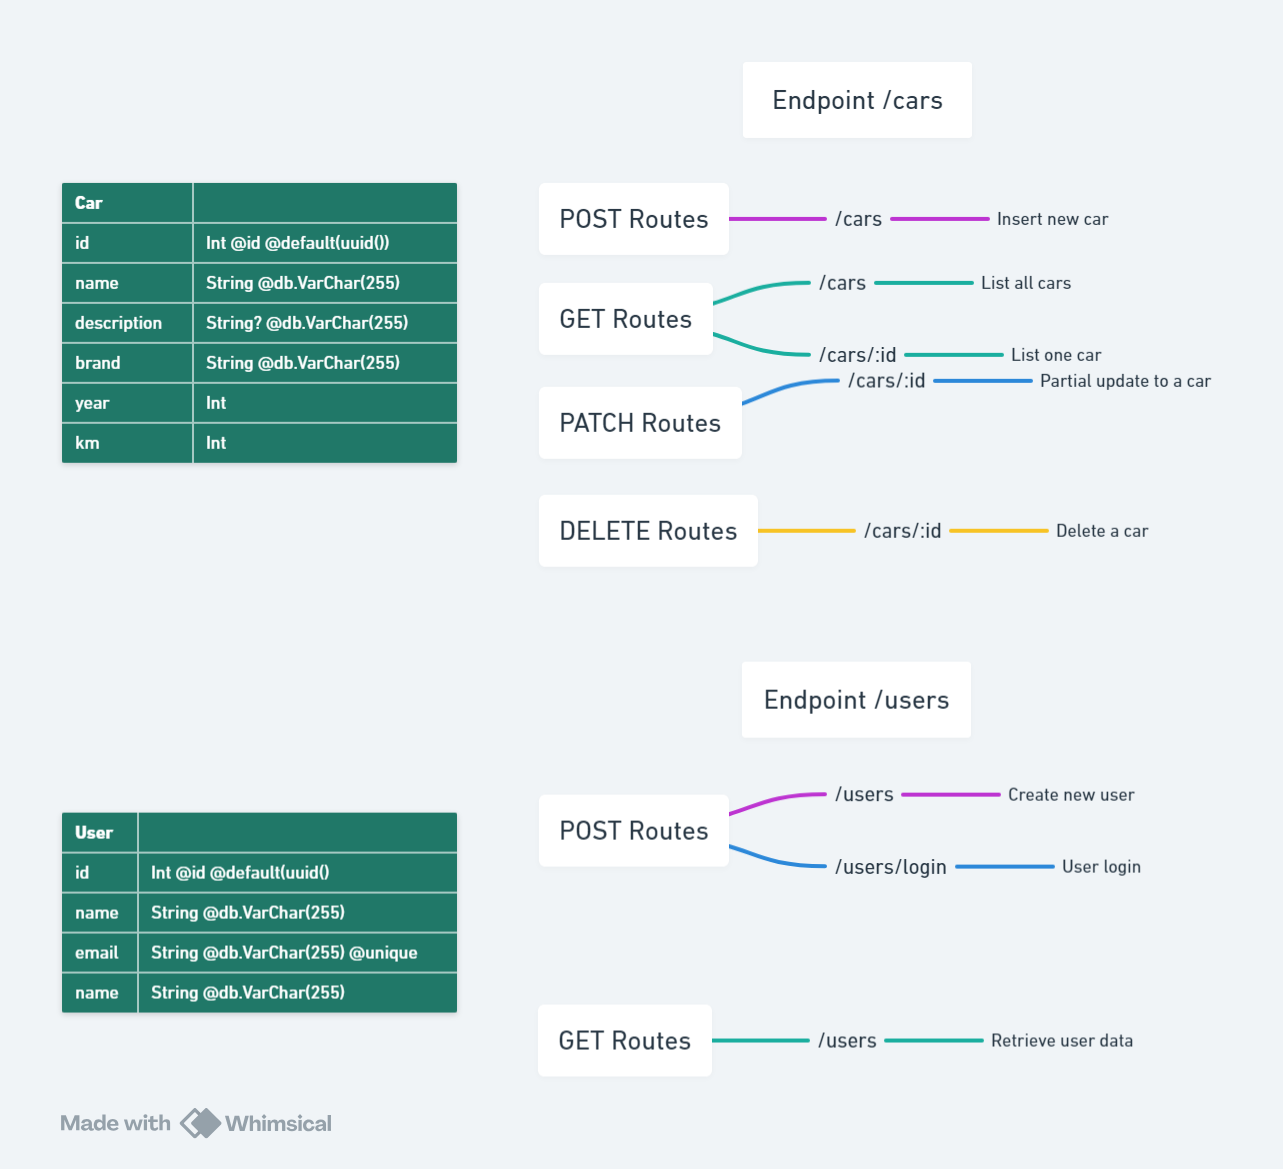
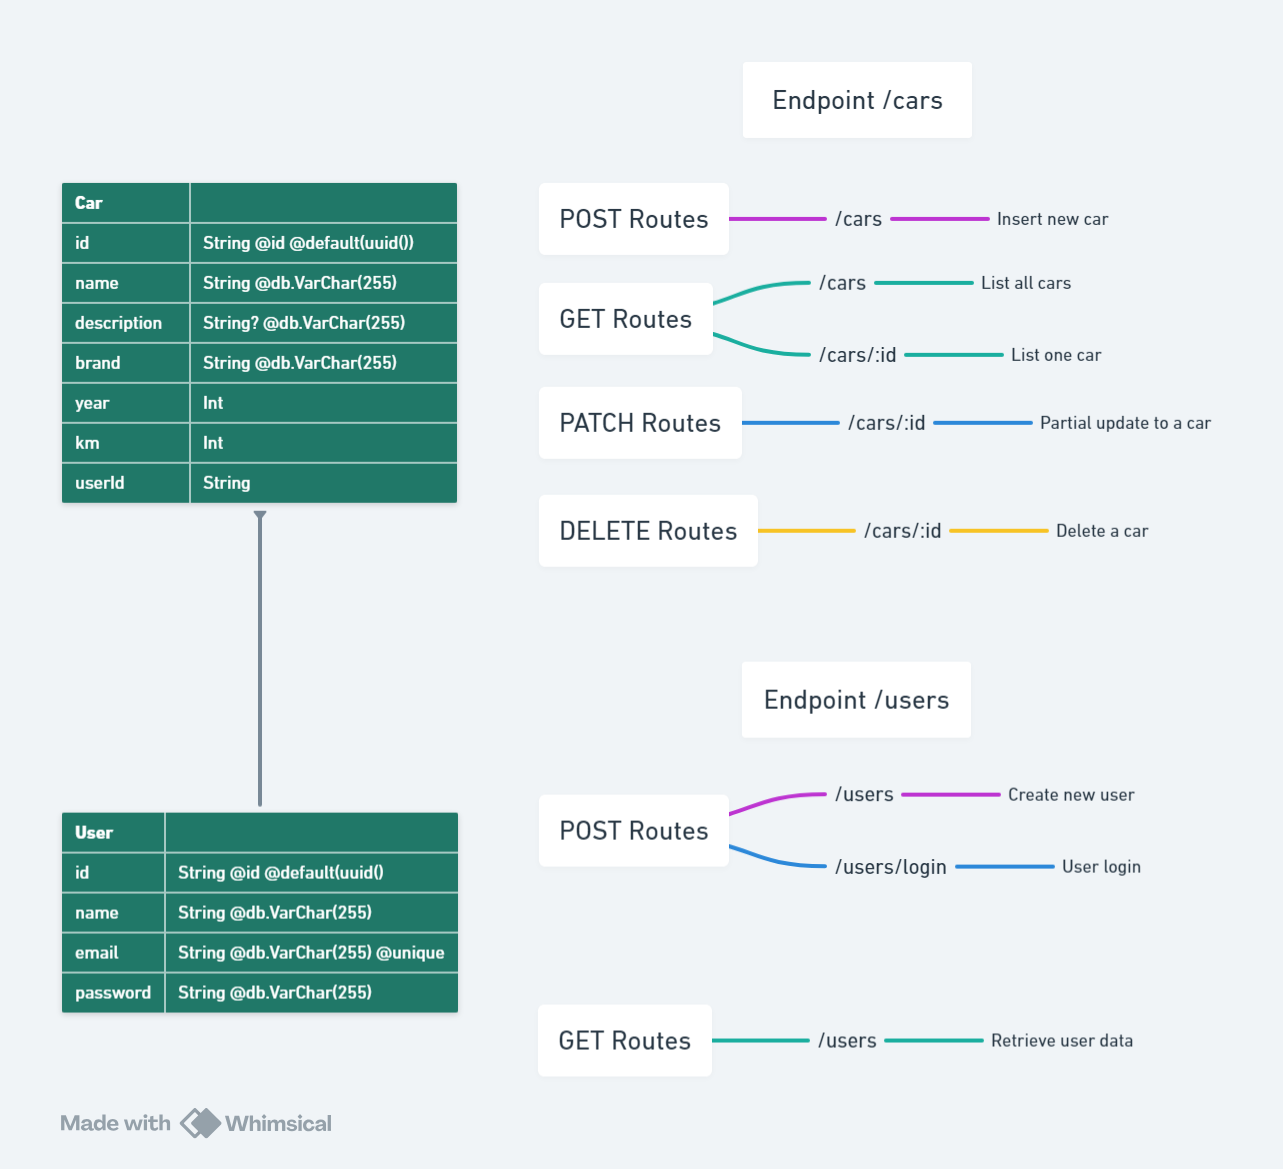
docs: update app functionalities info and api diagram

Changed region(s): [[0.0312, 0.1848, 0.3741, 0.4619], [0.0624, 0.7391, 0.3429, 0.8623], [0.5612, 0.308, 0.9353, 0.3695]]

diff --git a/README.md b/README.md
@@ -3,7 +3,7 @@
 ## Descrição
 
 -   API Rest desenvolvida utilizando do framework Express (Node.js) com TypeScript que possibilita o registro de usuários e seus respectivos veículos na base de dados;
--   A aplicação visa demonstrar funcionalidades de validação e serialização de dados externos com Zod, autenticação de usuário e proteção de rotas via token JWT e gerenciamento de banco de dados com ORM Prisma e PostgreSQL;
+-   A aplicação visa demonstrar funcionalidades de validação e serialização de dados com Zod, autenticação de usuário e proteção de rotas via token JWT e gerenciamento de banco de dados com ORM Prisma e PostgreSQL;
 -   Desenvolvimento conforme padrão TDD (test driven development), implementando testes unitários e de integração;
 -   Projeto estruturado visando a escalabilidade e melhor manutenção do código. Para isso foi utilizado o padrão de design de software MVC (model-view-controller) e injeção de dependências utilizando a ferramenta Tsyringe;
 -   Utilização de logs customizados para melhor manutenção do código.
@@ -16,6 +16,17 @@
 -   [Zod](https://zod.dev/): Validação de dados;
 -   [Jest](https://jestjs.io/): Framework para desenvolvimento de testes automáticos. Nesse projeto utilizado, em conjunto a ferramenta Supertest, para os testes unitários e de integração;
 -   TypeScript: Linguagem de programação utilizada.
+
+## Funcionalidades da aplicação
+
+1. Registro de usuários;
+2. Após login e autenticação do usuário é possível:
+    - Listar dados do usuário;
+    - Registrar novos veículos;
+    - Listar todos os veículos registrados;
+    - Listar um veículo específico;
+    - Atualizar dados de um veículo existente;
+    - Excluir o registro de um veículo.
 
 ## Pré-requisitos
 
